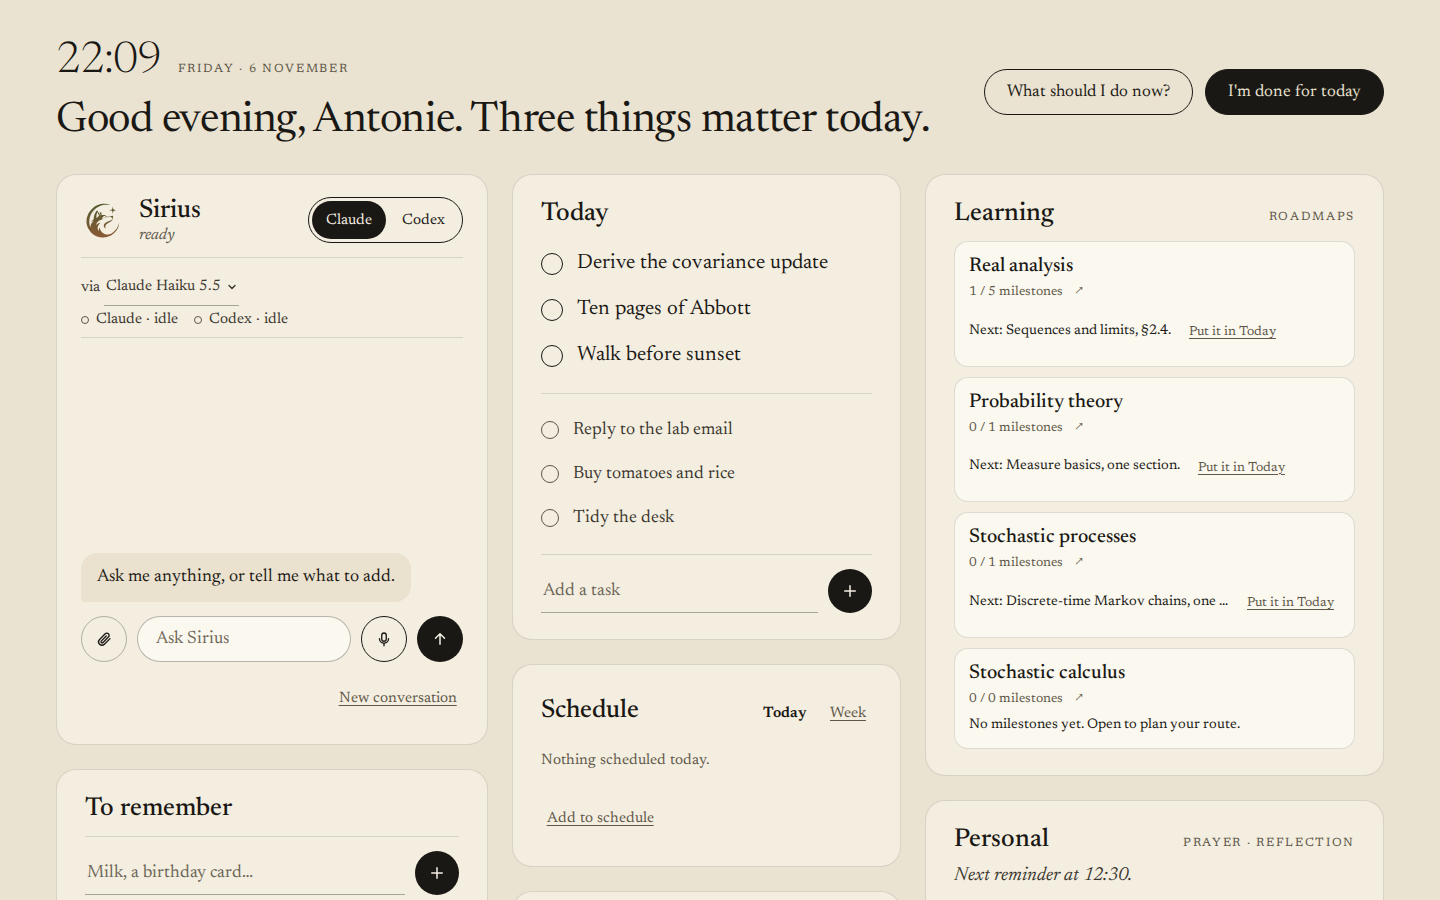
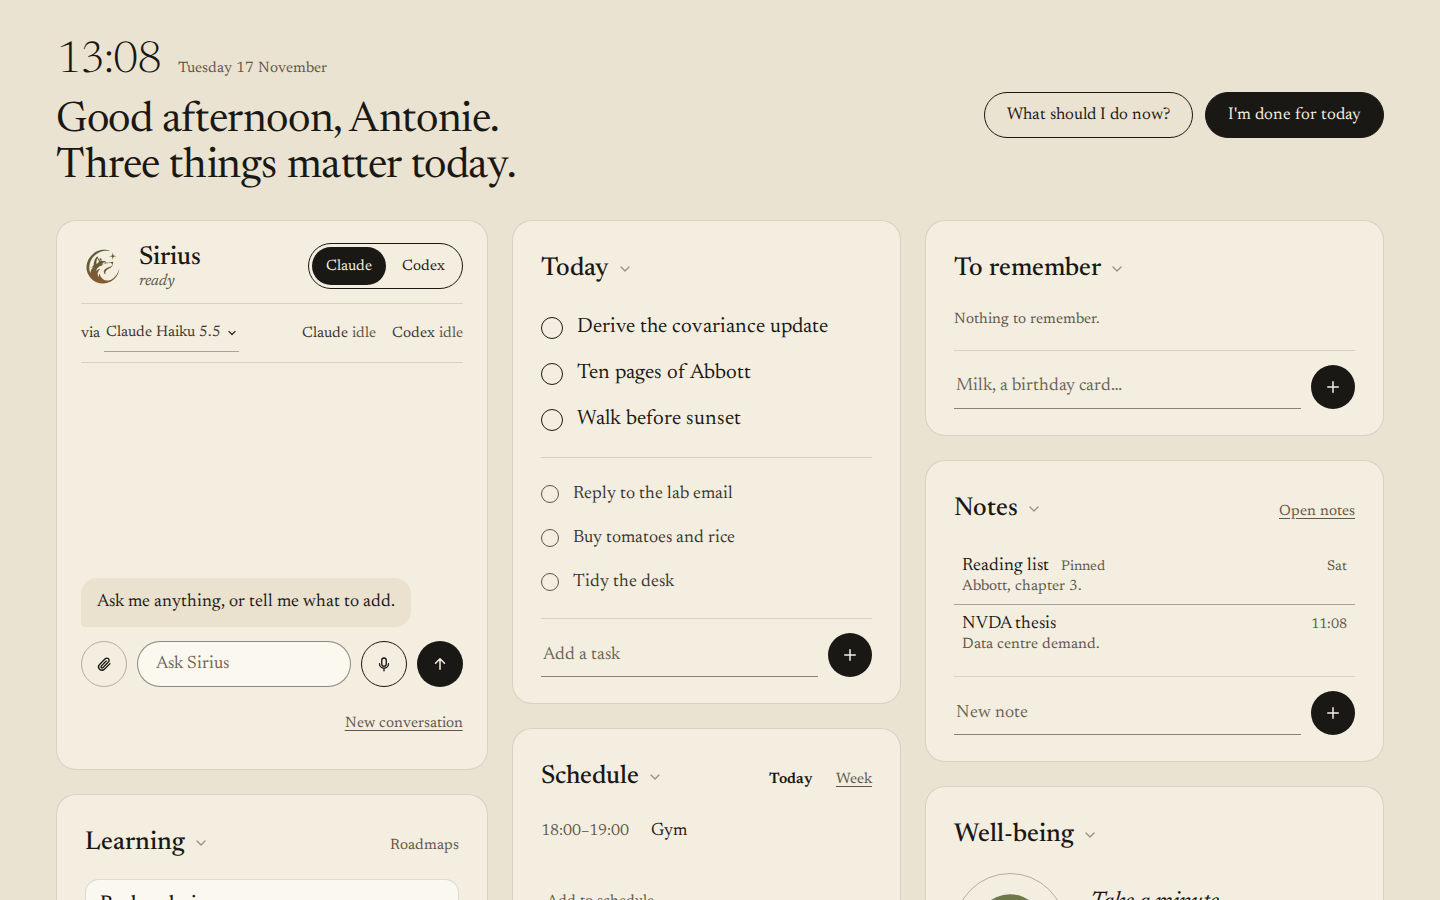
docs: notes in the data model, Black Night in F40, changelog, and fresh screenshots

diff --git a/docs/REQUIREMENTS.md b/docs/REQUIREMENTS.md
@@ -38,7 +38,7 @@ Sirius is a small, single-screen desktop dashboard and personal assistant for Ub
 
 **Design principles** (from the original notes, all binding): calm over productivity metrics; minimal over feature-rich; personal over prescriptive; quiet by default; local-first; no obligation to optimize every minute; rest is a valid suggestion.
 
-**Amended 2026-11-03 by the owner (ADR 0011):** Sirius is a direct personal assistant, not a calming presence. Its voice drops reassurance, rest advice and filler. **2026-11-04 design amendment:** remove falling leaves; keep breathing. Explore a simple canine-and-Sirius-star logo (`docs/design/logos/`), with **Orbit (the wolf/star/arc concept) selected by the owner** for application icons after reviewing Ascent. Launcher icons have a transparent background. The dashboard keeps the original theme-aware voice orb in every state, with a higher-resolution canvas. Desktop “To remember” sits below Sirius; Well-being moves to the right column. Roadmap overview cards are compact; full details stay on the dedicated roadmap page.
+**Amended 2026-11-03 by the owner (ADR 0011):** Sirius is a direct personal assistant, not a calming presence. Its voice drops reassurance, rest advice and filler. **2026-11-04 design amendment:** remove falling leaves; keep breathing. Explore a simple canine-and-Sirius-star logo (`docs/design/logos/`), with **Orbit (the wolf/star/arc concept) selected by the owner** for application icons after reviewing Ascent. Launcher icons have a transparent background. The dashboard keeps the original theme-aware voice orb in every state, with a higher-resolution canvas. Desktop “To remember” sits below Sirius; Well-being moves to the right column. Roadmap overview cards are compact; full details stay on the dedicated roadmap page. **2026-11-16 owner amendment:** on the desktop, Roadmaps and Personal sit below Sirius on the left; To remember and Notes move to the right column, above Well-being.
 
 ## 2. Scope
 
@@ -129,8 +129,9 @@ Sirius is a small, single-screen desktop dashboard and personal assistant for Ub
 - **F37** **Schedule:** fixed commitments, weekly on chosen days within an optional term, or once on a date, with times and a place. Kept apart from tasks, shown today and for the week, with a desktop reminder 10 minutes before. Agents add and change it; deleting needs a proposal. The phone gets it as an iCalendar feed for ICSx⁵, which puts it in Android's calendar and widgets with alarms that work offline (ADR 0012).
 - **F38** **Phone layout and phone voice:** on a phone the dashboard is one section at a time (Today, Sirius, Plan, List) above a bottom bar with the mic in the middle, opening on Today; the mic opens Sirius. A section that changed while you were elsewhere shows a dot, and a reply that changed something links to it. The desktop keeps its columns. The phone records, the laptop transcribes and acts with the phone's own login, and the phone says the answer with Android's voice, in English or Romanian.
 - **F39** **Phone notifications by browser push:** reminders, schedule alerts and agent alerts reach the phone as normal Android notifications, with no extra app. Today offers "Turn on" once. The laptop encrypts each one for the phone (RFC 8291) and signs it with its own key (VAPID, RFC 8292), so the push service in between sees neither the text nor who it is for. A tap opens the tab it is about. Forgetting phones forgets their subscriptions. They need the laptop awake, like the rest; schedule alarms through ICSx⁵ do not.
-- **F40** **Themes and voice animation, chosen by asking Sirius:** seven themes (Paper, Midnight Blue, Night Owl, Graphite, Sage, Ember, Orb) and three animations (Sirius, the layered Orbit wolf animated with GSAP, the default since 2026-11-05 in place of the dot-matrix sphere; a ring; a dot) through one agent tool, `set_appearance`, kept as settings so the phone follows. It sits at the top of the chat and, for a whole spoken exchange (listening, thinking, speaking), a large one fades up over the chat without moving it. It runs frames only while listening, thinking or speaking. Replies type out from the thinking dots to the last letter as one bubble, which never blinks when the stored copy replaces it. The phone has no header buttons, and Send turns into Stop while a reply is coming. The phone's splash and first paint use the current theme. Logo studies: `docs/design/sirius-logo/`. References: `docs/design/references/`.
+- **F40** **Themes and voice animation, chosen by asking Sirius:** seven themes (Paper, Midnight Blue, Night Owl, Graphite, Sage, Ember, Black Night; Orb was renamed Black Night) and three animations (Sirius, the layered Orbit wolf animated with GSAP, the default since 2026-11-05 in place of the dot-matrix sphere; a ring; a dot) through one agent tool, `set_appearance`, kept as settings so the phone follows. It sits at the top of the chat and, for a whole spoken exchange (listening, thinking, speaking), a large one fades up over the chat without moving it. It runs frames only while listening, thinking or speaking. Replies type out from the thinking dots to the last letter as one bubble, which never blinks when the stored copy replaces it. The phone has no header buttons, and Send turns into Stop while a reply is coming. The phone's splash and first paint use the current theme. Logo studies: `docs/design/sirius-logo/`. References: `docs/design/references/`.
 - **F41** **Sirius for Android (ADR 0013):** a native app in `apps/mobile` with the four phone tabs (Today, Sirius, Plan, List), paired with the laptop over Tailscale. Reminders and schedule alerts are scheduled on the phone and fire with the laptop off; agent alerts arrive as local notifications on each sync, about every 15 minutes in the background. A home-screen widget shows today's tasks and ticks them off with a tap. No Firebase, no account, no cost. Built by `scripts/android-build.sh`.
+- **F42** **Notes, and cards that fold:** notes of any length (up to about 50 pages of text), kept loose or in folders such as "Stocks". A note saves itself 0.8 s after typing stops and when it is closed. Deleting a folder deletes its notes; undo brings both back. The card shows the latest few notes and opens a notes page (`?notes`, `?notes=<id>`): folders with counts, a list searched by title and text (pinned first, then the latest edit), and the open note, side by side on a wide window and in turns on a phone. A note is one writing surface whose first line is its title; it shows whether it is saved, its word count and times, and can be moved, pinned, or deleted with Undo for 30 s. An open note never silently overwrites a newer edit made elsewhere: it offers to keep its own text or take the other. Agents write and edit notes with `add_note` and `update_note`; deleting a note or a folder needs a proposal. Every card except the Sirius chat folds to its title bar when its title is clicked, with a count where one helps, and stays folded on that device until opened again.
 - Removed as filler: the panel slogans, "Small things, if there's room", the chat's suggestion chips, and the "Something small:" prefix in the header's suggestions.
 
 ## 4. Non-functional requirements
@@ -304,7 +305,9 @@ agent_events    source('claude'|'codex'), kind('needs_input'|'turn_complete'|'er
 conversations   agent('claude'|'codex'), model, cli_session_id?, title?
 messages        conversation_id, role('user'|'assistant'|'tool'), text, meta(json)
 voice_turns     conversation_id?, lang, transcript, route('fast_path'|'agent'), intent?, latency_ms(json)   -- no audio
-settings        key pk, value(json)   -- incl. voice.enabled, voice.wake_word_in_quiet, voice.stt_model, voice.tts_voice_{en,ro}
+note_folders    name, position                                  -- added 2026-11-11 (F42)
+notes           folder_id?, title, body, pinned_at?              -- added 2026-11-11 (F42); deleting a folder deletes its notes
+settings        key pk, value(json)   -- incl. scheduler.last_date, voice.enabled, voice.wake_word_in_quiet, voice.stt_model, voice.tts_voice_{en,ro}
 change_log      entity, entity_id, op('create'|'update'|'delete'), actor, payload(json), at
 ```
 

diff --git a/CHANGELOG.md b/CHANGELOG.md
@@ -186,3 +186,71 @@
 - Black Night theme (the former Orb, renamed, with the wolf's gradient).
 - **Sirius: Today (small)**, a row shorter; a Today widget about two rows high tightens its header.
 - Schedule: an entry with no end time counts as an hour long before it leaves today's list.
+
+## Notes and folding cards (2026-11-11)
+
+- **Notes**: notes of any length, loose or in folders such as "Stocks", in a new card beside
+  To remember (on the phone, under List). A note saves itself as you type, and Sirius can
+  write and edit notes; deleting one needs your confirmation.
+- Every card except the chat folds to its title bar when you click its title, showing a count
+  where one helps. Each device remembers which cards are folded.
+- Codex approval alerts stay quiet in "Approve for me" (auto-review) mode, where a reviewer
+  agent answers instead of you. The hook reads the session's current mode from Codex's log.
+
+## Notes app, layout and polish (2026-11-16)
+
+- **Notes page**: the Notes card opens a full notes page (`?notes`, or `?notes=<id>` for one
+  note), with folders and their counts, a searchable list (pinned first, then the latest edit)
+  and the open note side by side; on a phone the list and the note take turns. A note is one
+  writing surface whose first line is its title, with a save state, a word count, its times, a
+  folder, a pin, and delete with Undo for 30 seconds. `/` or Ctrl+F searches, Ctrl+Enter starts
+  a note, and Escape steps back. The card now shows the latest few notes and the quick-add line.
+- An open note no longer overwrites an edit made elsewhere, such as by Sirius: `update_note`
+  takes an optional `expected_rev` and refuses a stale one with `conflict`, and the note then
+  offers Keep mine or Take theirs. `update_note` also takes `pinned`, and `delete_note` returns
+  the `change_id` to undo it.
+- **Android widgets stay current**: they redraw when the live stream connects and when the app
+  goes to the background, a failed sync no longer skips the background refresh, a failed paint
+  is retried by the next refresh, and a revoked token says "Open Sirius to pair" instead of
+  "Laptop away". The same release stops a stale reminder sync overwriting a newer one and
+  lets the phone page recover once the laptop is back.
+- The cards moved: Roadmaps and Personal sit on the left, To remember and Notes on the right.
+- Polish: labels are in sentence case, the small lines under titles are plainer, glyphs are SVG
+  icons, and an empty card says so ("Nothing for today yet.") once its data has loaded. Focus
+  rings keep the shape of what they surround.
+- Motion: timings come from shared tokens. Cards enter faster, a toast leaves as gently as it
+  arrives, a tick draws itself, the rows below a removed row glide up, and a card folds with
+  transform only. Reduced motion is honoured everywhere, including the motion run from code.
+- Fixed: a chat turn survives leaving the window and coming back, push-to-talk no longer starts
+  twice, the pairing button, the 04:00 rollover after a restart, and Escape in voice before
+  capture begins.
+
+## Notes, chat and polish, finished (2026-11-17)
+
+- **Notes keep every word**: saves go one at a time, each against the revision the editor last
+  saw, so closing a note can no longer overwrite an edit made elsewhere. Closing a note in
+  conflict keeps your text as a new note in the same folder. A first line over 500 characters
+  keeps its overflow in the body. Deleting a folder now offers Undo, which brings its notes back.
+- **Milestones**: the milestone editor sends the revision it opened, merges an edit made
+  elsewhere into fields you did not touch, and asks Keep mine or Take theirs when both changed
+  the same one. `update_roadmap_step` takes an optional `expected_rev`.
+- **Chat**: a file still uploading shows "uploading" and holds Send until it is ready; only the
+  files actually sent are cleared; Send is busy from the moment you press it; resending the
+  same words shows them again. A finished reply is held until its stored copy arrives, matched
+  by the core's time, so an error or a spoken line is never taken for it.
+- Rows added while the laptop has not answered yet cannot be ticked or dropped until it does.
+- Push-to-talk releases the microphone when recording fails to start. In the voice service, an
+  Escape pressed just before a reply starts playing is honoured, and a failure no longer
+  swallows a press that arrived during it.
+- Polish: text fields have edges at 3:1 contrast, note times use the 24-hour clock like the
+  rest of the app, long task titles on a phone wrap short of the remove button, headings
+  balance their lines, disabled round buttons change colour as well as fading, and the roadmap
+  checkpoints' spoken names match what they show. Full-page dialogs no longer use `100vw`.
+- A note or milestone saved while the laptop was away, then refused because it changed
+  somewhere else, keeps its text as a new note ("… (kept from a conflict)") once no editor is
+  open on it, and says so. Before, after a reload, that text was dropped without a word.
+- Stop works from the moment you press Send, not only once the reply has started.
+- Sending the same words again fades the new bubble in, like any other.
+- A link at the end of a row lines its words up with the card's edge.
+- Playwright now also runs the desktop specs in WebKit, the nearest stand-in for the desktop
+  app's WebKitGTK window, locally and in CI.

diff --git a/README.md b/README.md
@@ -47,12 +47,15 @@ working from its own copy while the laptop is away.
 | **Goals** | A few goals, with milestone dots instead of percentages. "A step closer" marks today as a day you worked on the goal, without adding a milestone. You can add goals by hand or ask Sirius. |
 | **Learning** | Independent roadmaps, each with its milestones and its own page of checkpoints, descriptions and progress notes. "Put it in Today" turns the next step into a task; ticking that task logs a day worked on the step and leaves the step open until you finish it. Attach a syllabus PDF or Markdown file in the chat, and Sirius turns it into a roadmap. |
 | **To remember** | A plain list for things to buy or remember, with no day or time attached. |
+| **Notes** | Notes of any length, loose or in folders such as "Stocks". They save as you type, and Sirius can write or edit them for you. |
 | **Personal and Well-being** | Prayer and reflection reminders, a breathing exercise and stretch nudges. |
 | **Agent attention** | A toast and a desktop notification when Claude Code or Codex, in any terminal, is blocked on a permission prompt or a question. It clears itself once you answer. Clicking it brings up the terminal or VS Code the agent runs in, also from a distrobox container; with the focus extension, that agent's own window. The Sirius card shows which sessions are working or idle. |
 | **Voice** | Push-to-talk with **Ctrl+Alt+Space**, in English and Romanian. Common commands such as "add milk to my list" or "ce urmează" are handled on the laptop without an agent turn, and anything else goes to the agent. |
 | **Looks** | Seven themes, among them Black Night (black with the wolf's blue-to-orange gradient); ask Sirius ("switch to midnight", "something darker"). The Sirius wolf takes each theme's colours and reacts to what happens: it draws itself in at launch, listens, thinks and speaks with the voice, works while an agent runs, howls when one finishes or wants you, and sleeps in quiet mode. |
 | **Phone** | An installable web app over Tailscale, with its own layout: Today, Sirius, Plan and List behind a bottom bar, and a mic that sends your voice to the laptop, stops by itself once you go quiet, and says the answer on the phone. It keeps an offline copy, opens from it within about three seconds when the laptop does not answer, queues the changes you make while away, and sends each one exactly once when the laptop is back. |
 | **Android app** | The same phone app in a native shell, which adds reminders scheduled on the phone (they fire with the laptop off), agent alerts, home-screen widgets and background sync. No Google account, no Firebase, built locally for free. |
+
+Any card except the chat folds to its title bar with a click on its title, so one you don't need right now takes one line. Each device remembers which cards are folded.
 
 Agents never change several things at once, or delete anything, without you confirming a
 proposal card. Single changes an agent makes can be undone for 30 seconds.
